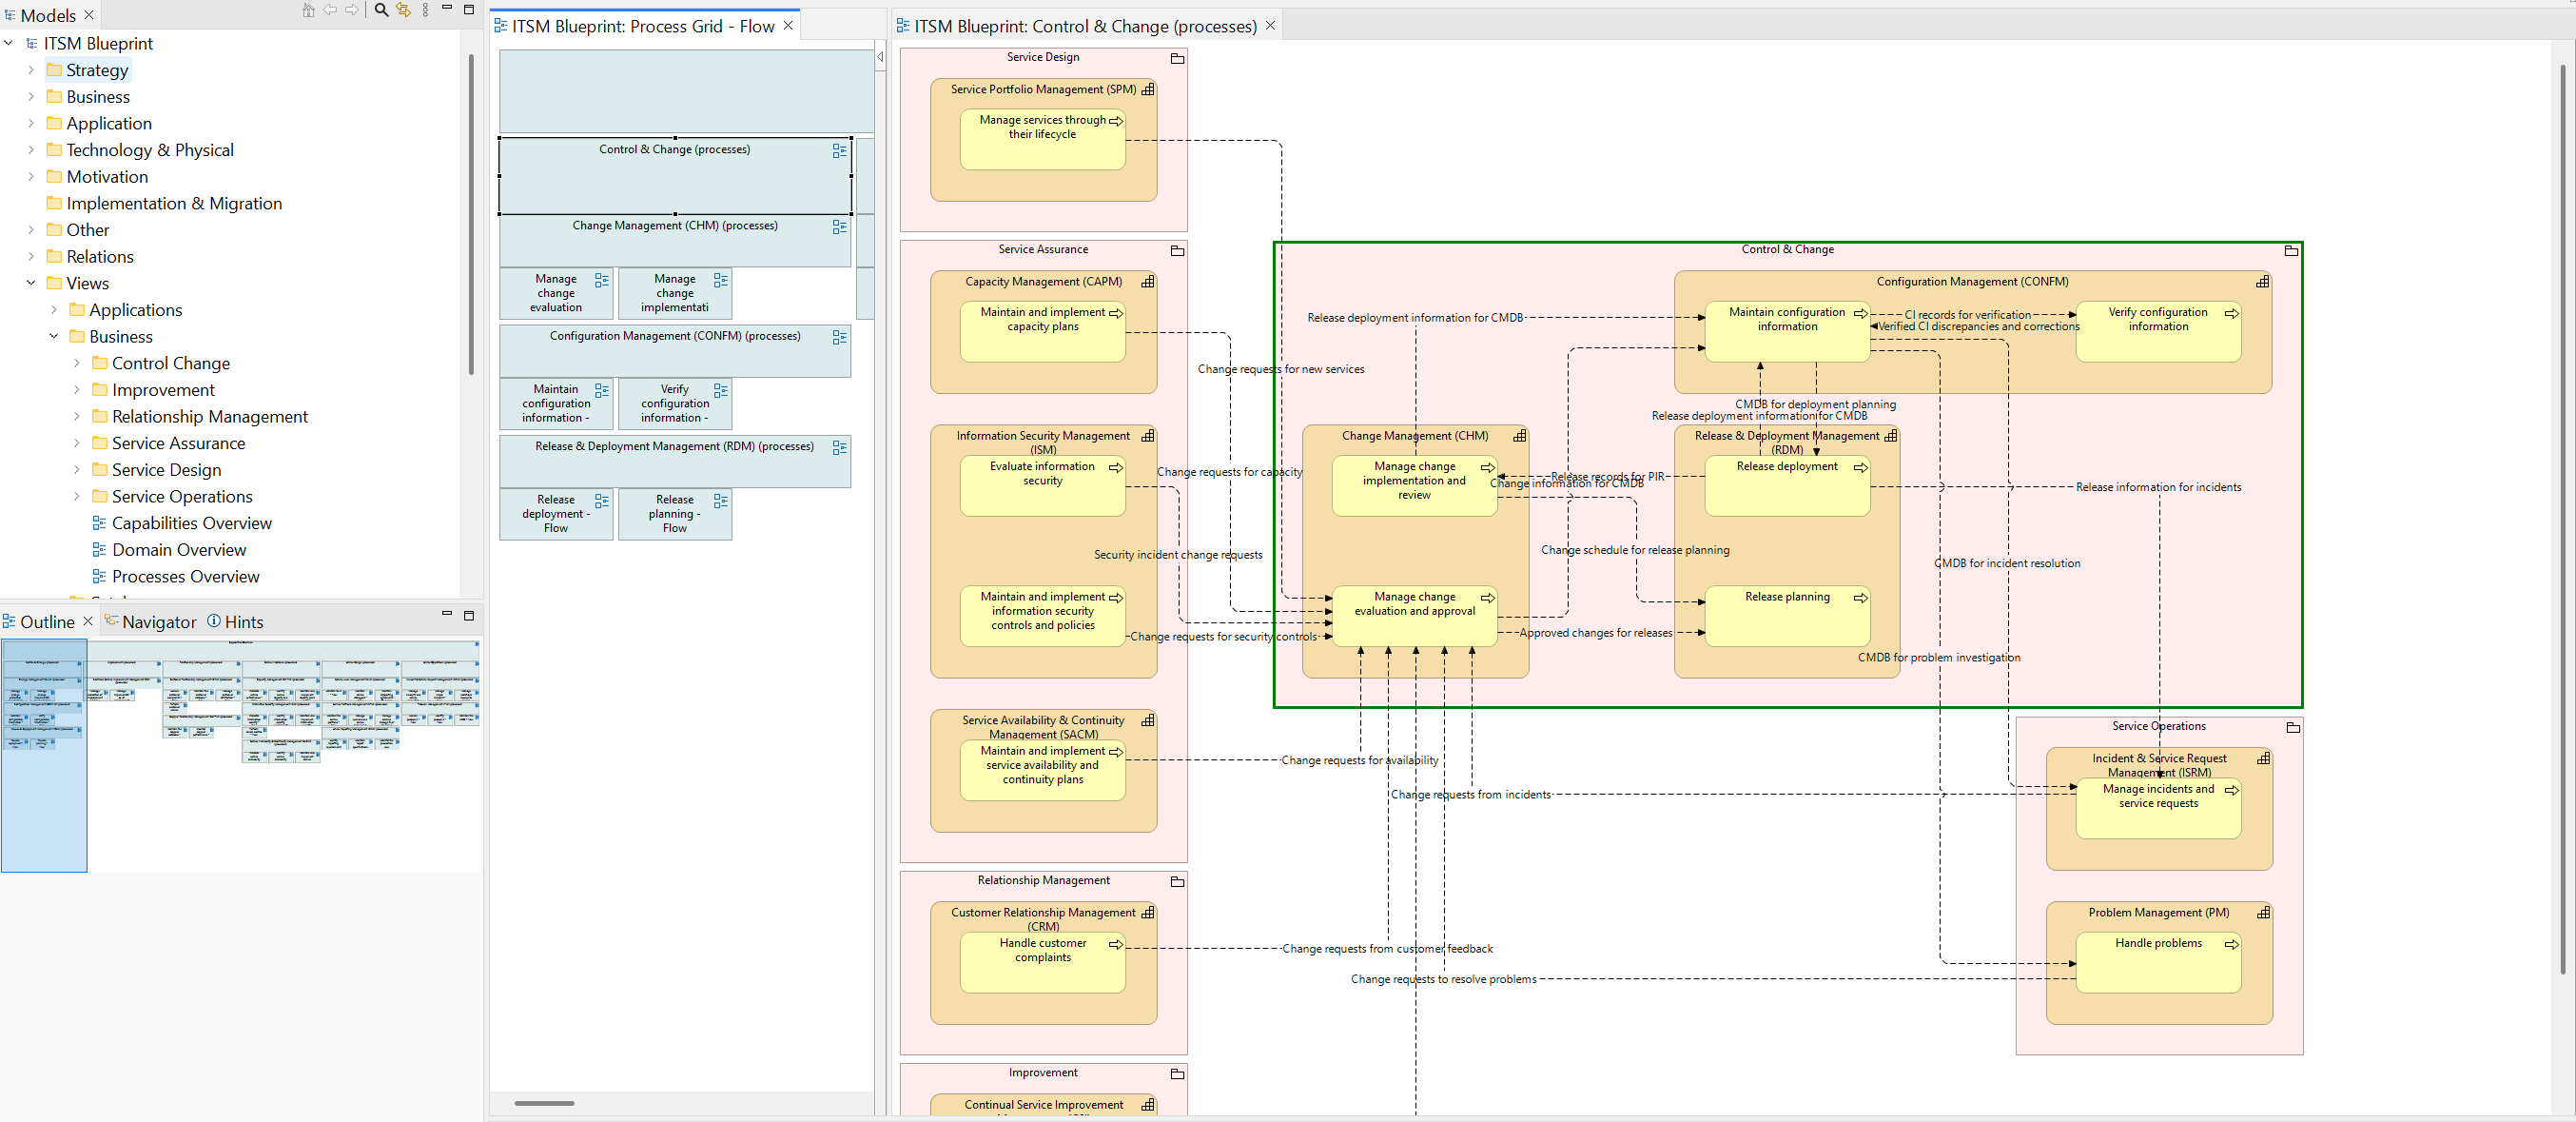
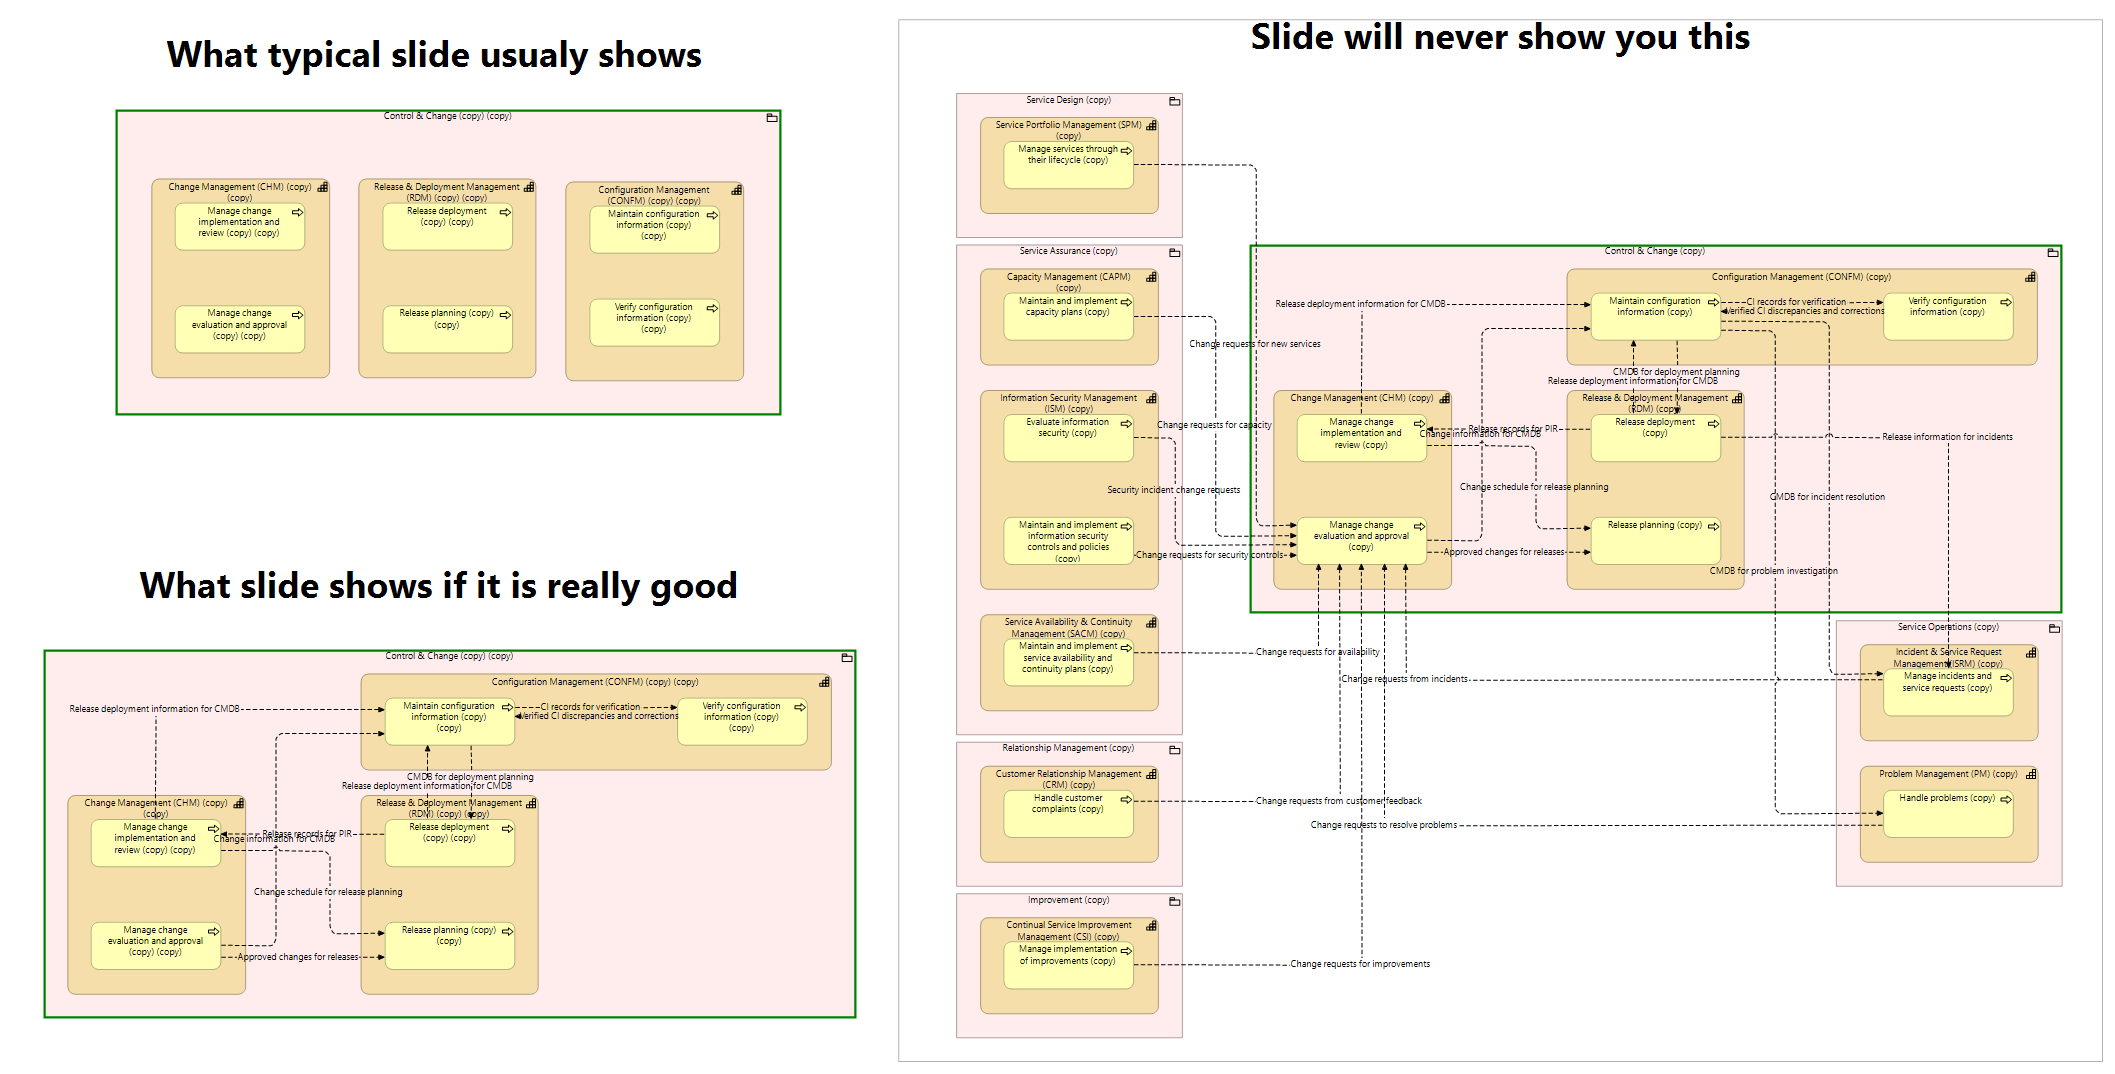
Add title image, replace world-map and anatomy/circulation graphics

diff --git a/index.html b/index.html
@@ -29,6 +29,8 @@
 
 <hr>
 
+<img src="images/graphic0-title.jpg" alt="Business Flows! Think Traffic, Not Flowchart.">
+
 <h2>The picture nobody had ever seen</h2>
 
 <p>In 2016 I was working at Walgreens Boots Alliance, near London. I had been brought in as the expert on ARIS — the tool and the content — looking after a library of about five hundred documented processes. It was, by the standards of the discipline, a good library: three tidy levels, a team of some twenty business analysts drawing and maintaining the models, everything filed where it should be.</p>